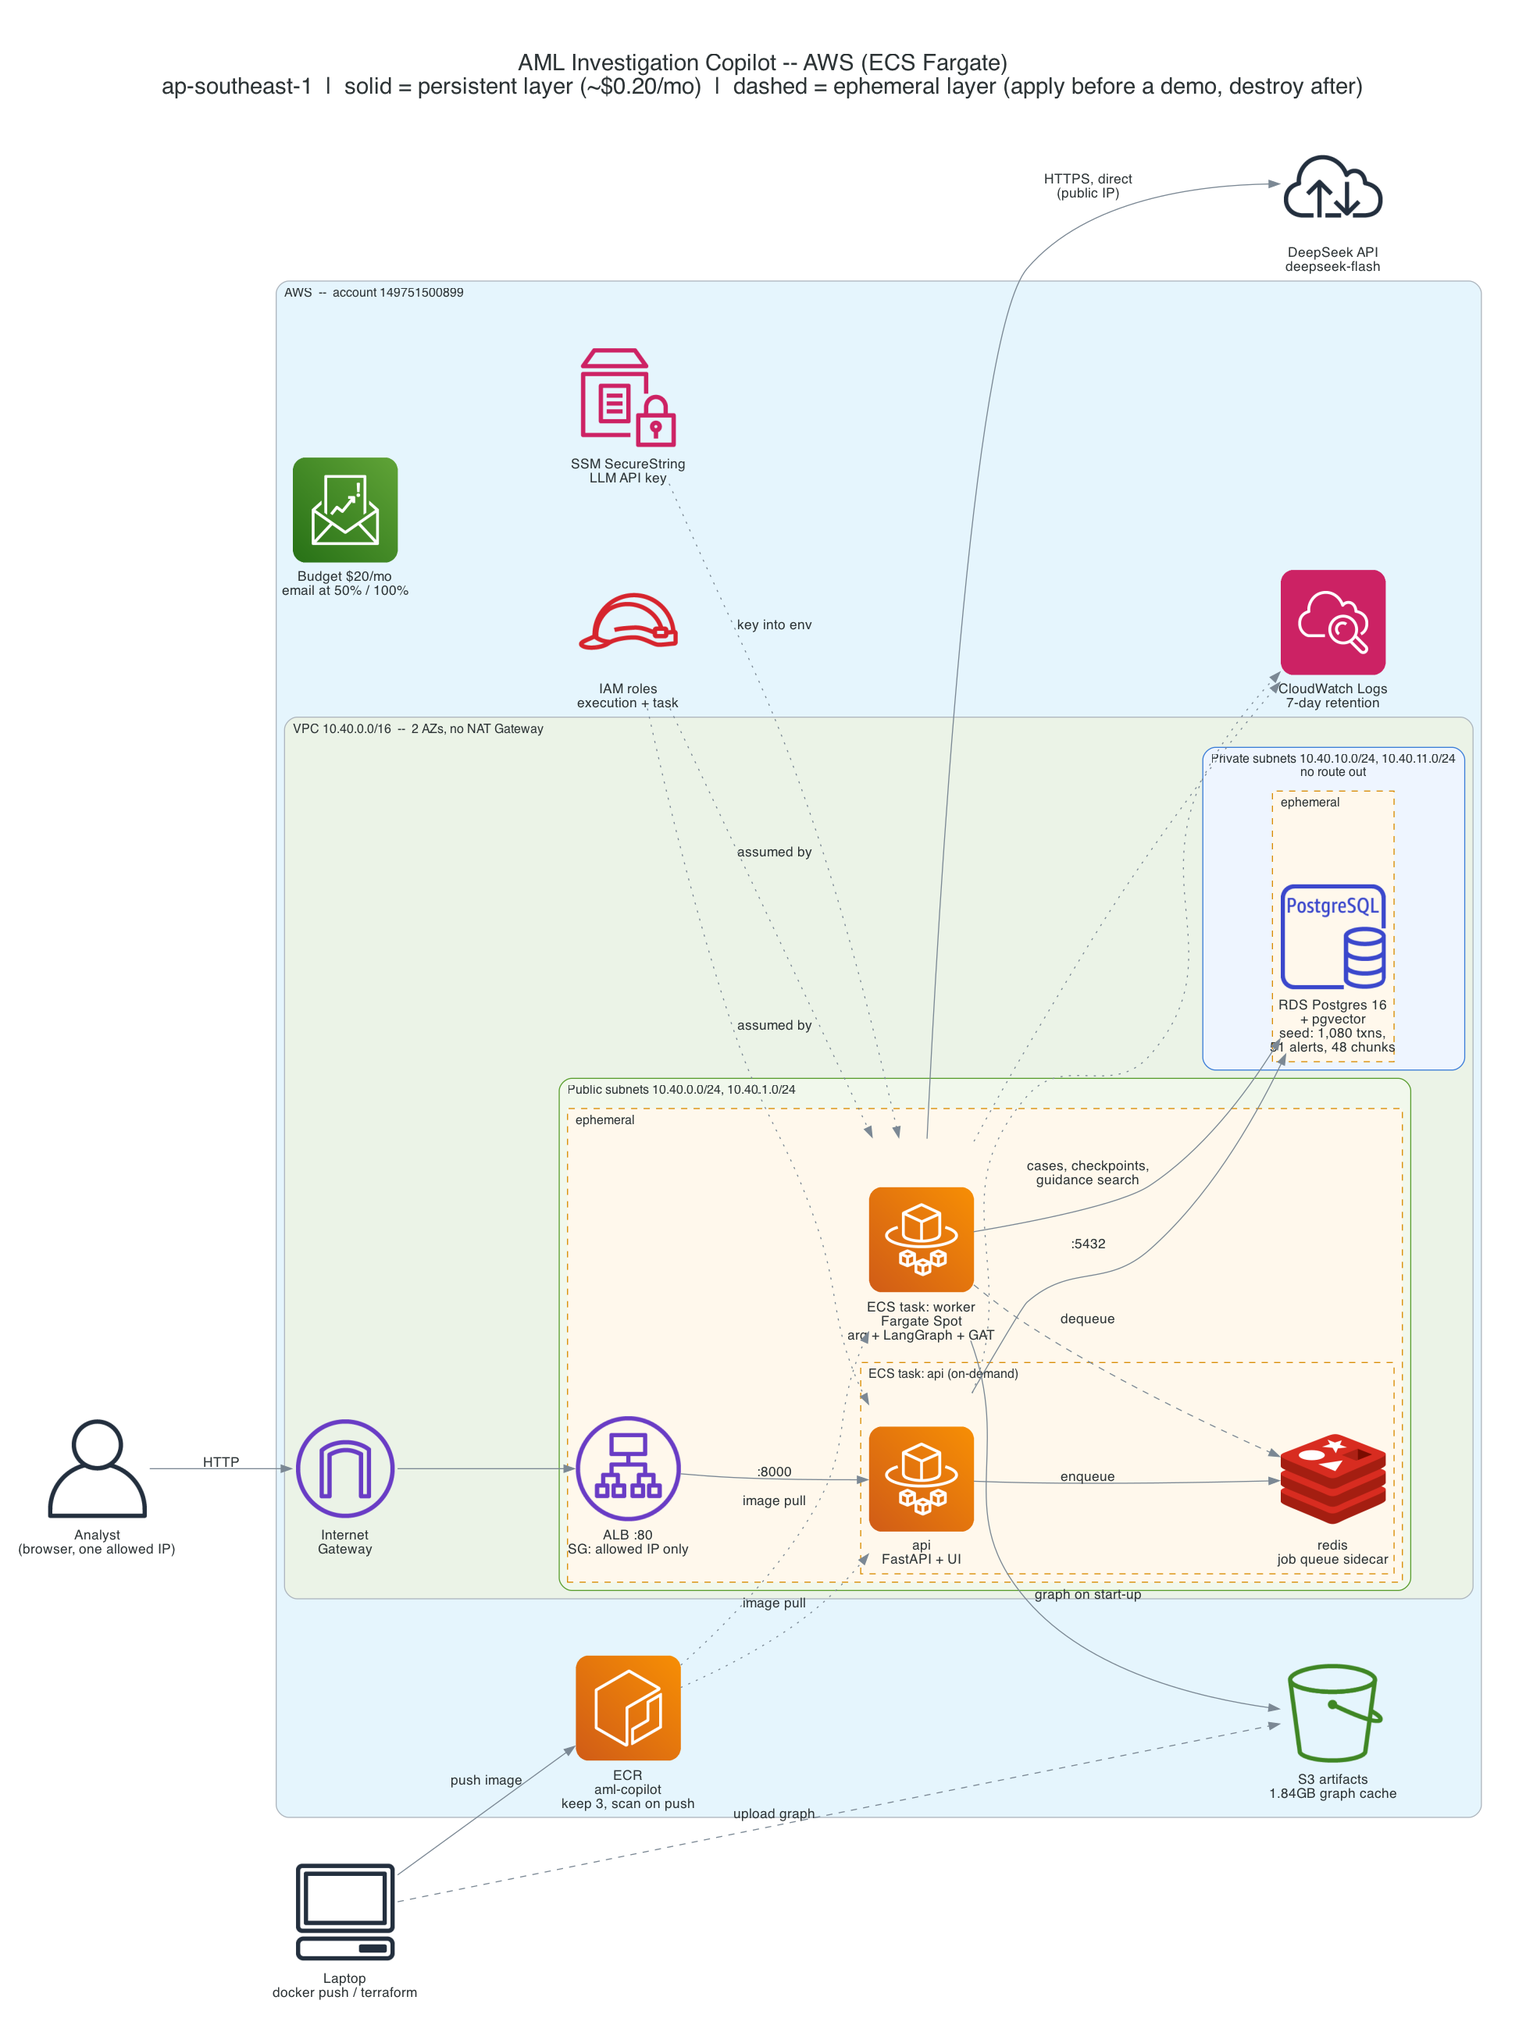
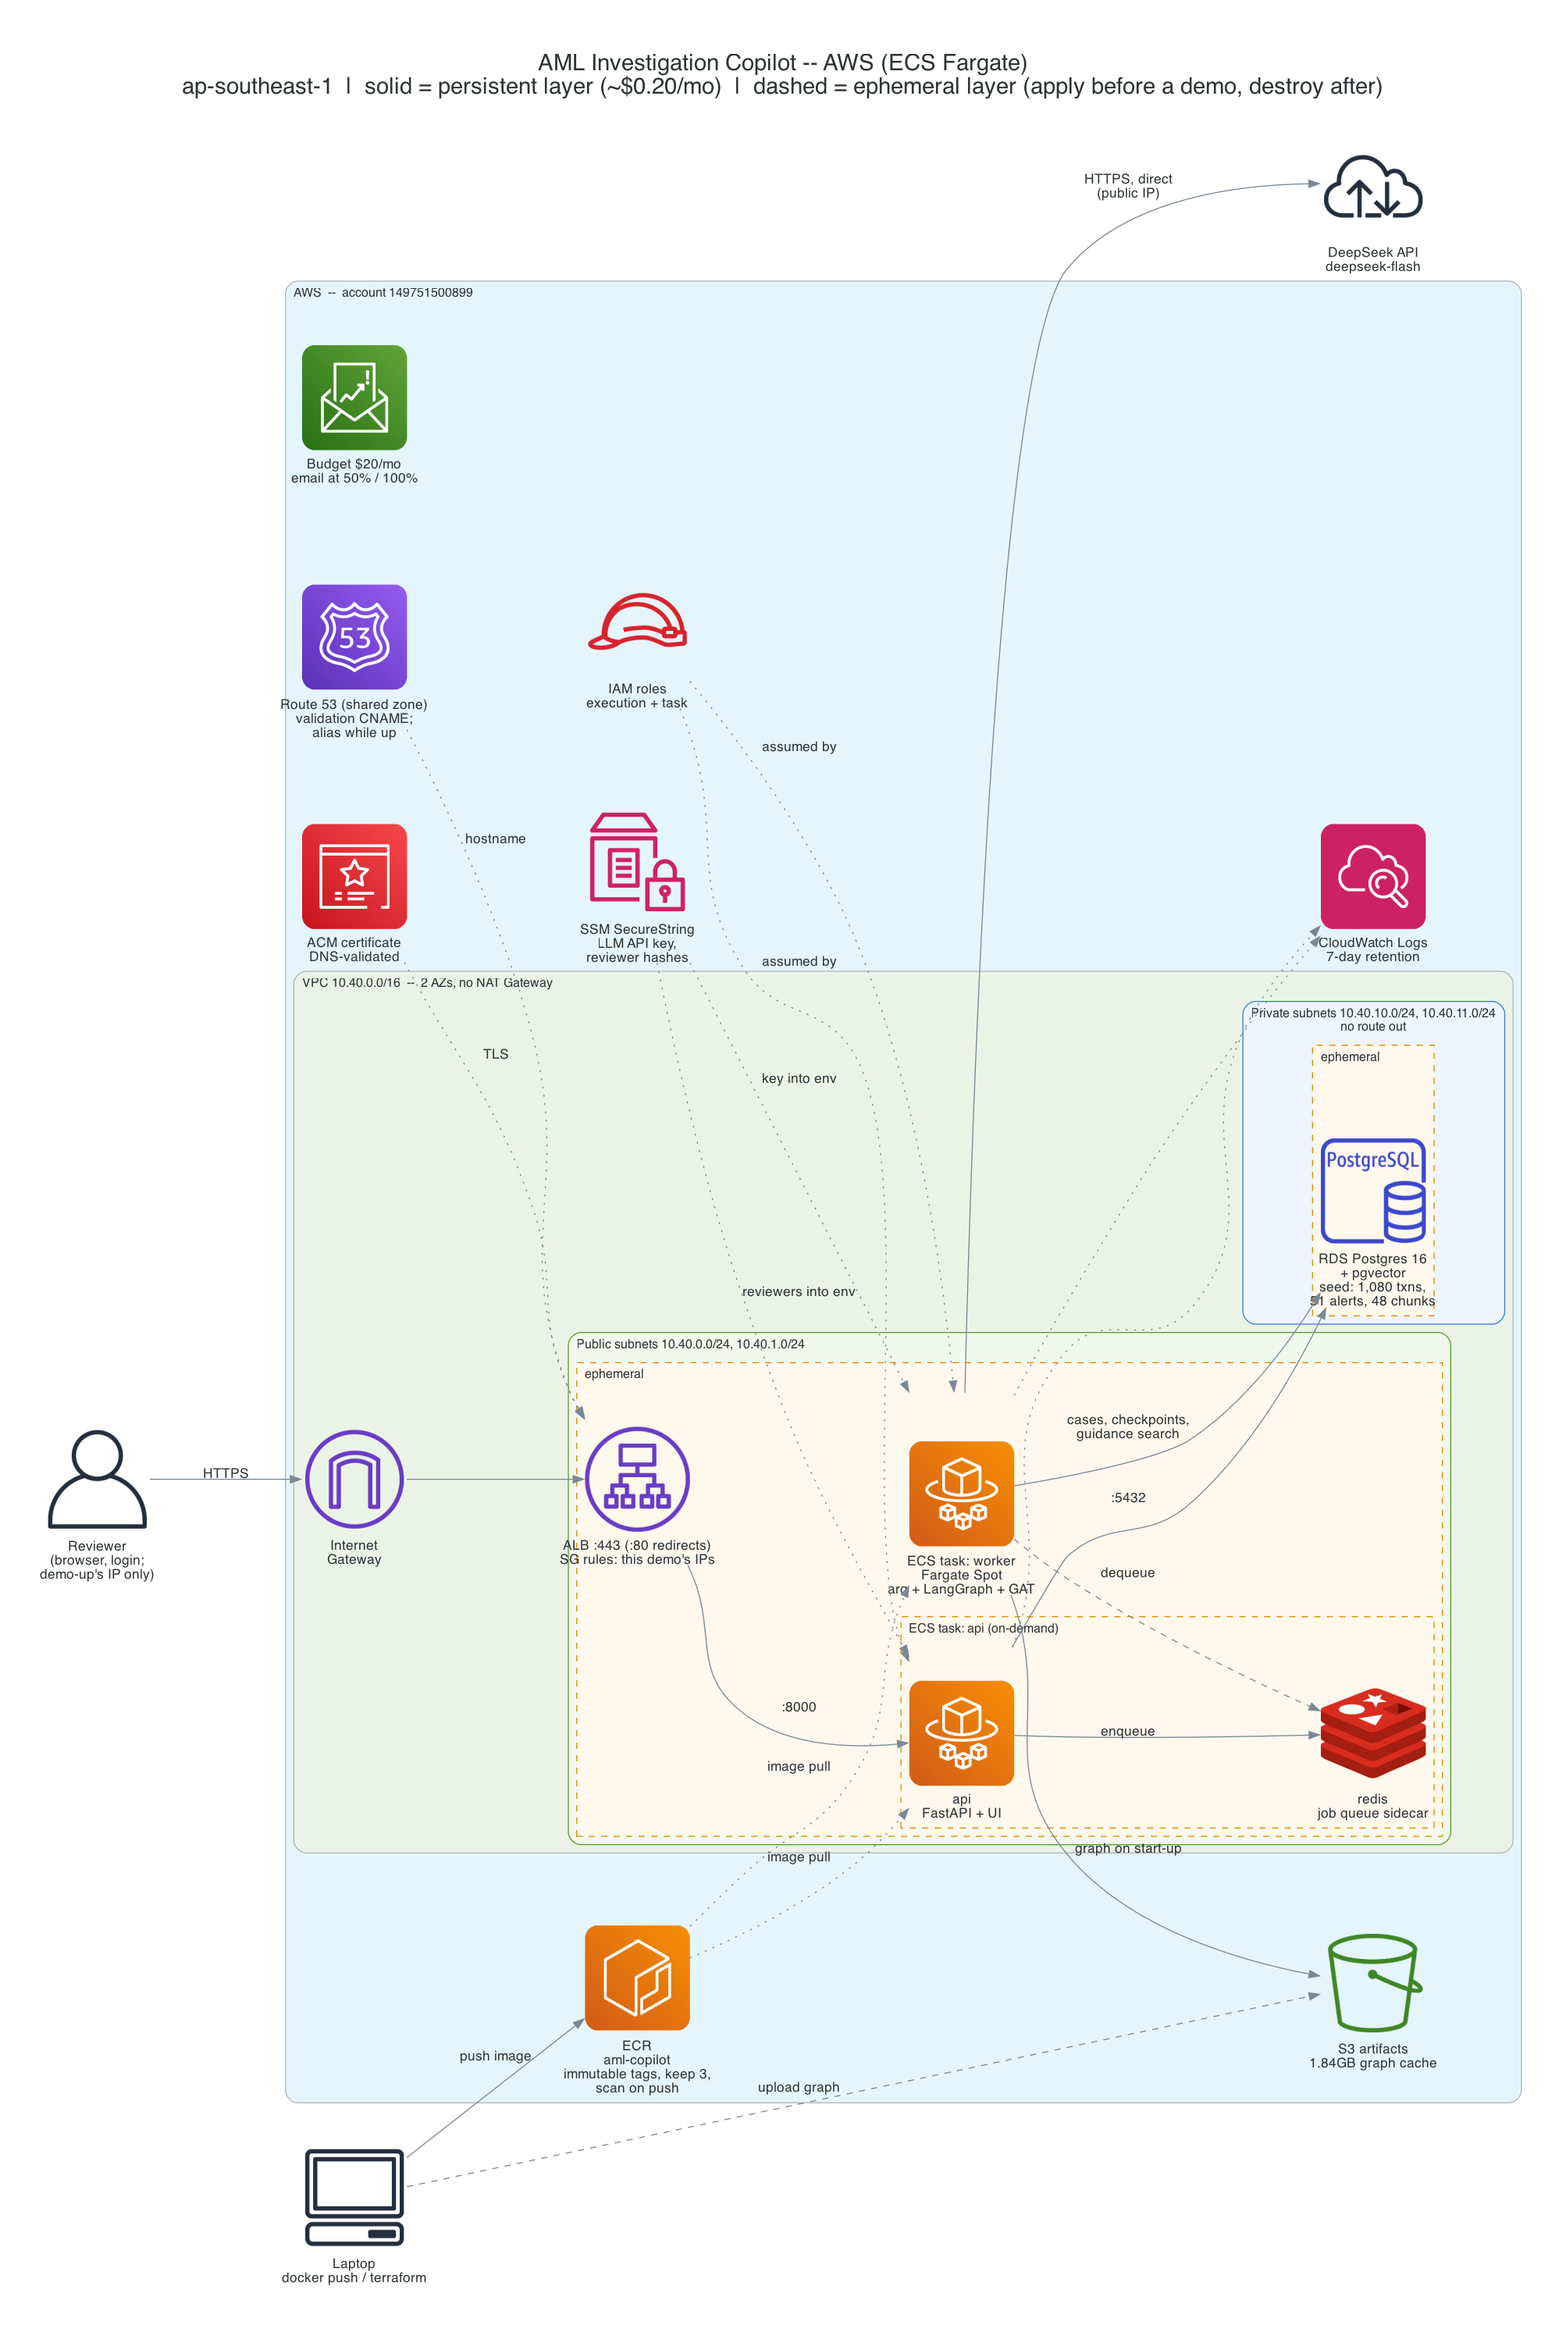
docs: describe the hardened deploy -- HTTPS, logins, per-demo allowlist
The README's deploy section, the demo script and the architecture
diagram described the stack before this branch: HTTP on :80, no login,
and an allowlisted home IP edited by hand in the persistent tfvars.

- README: the one-time setup now sets the reviewer logins and names the
  Route 53 zone (read, never managed, two records added). The graph
  upload notes that its sha256 directory is now checked. demo-up admits
  the machine it runs from, plus EXTRA_CIDRS. The "no auth" bullet is
  replaced by what is there now, and why basic auth over Cognito.
- demo script: step 1 no longer edits tfvars; the troubleshooting table
  re-runs demo-up for a changed IP (it reseeds but never truncates
  cases), covers a login loop, and sends a failed case to the logs,
  since the case now keeps only the error's type.
- diagram: HTTPS with :80 redirecting, the ACM certificate, the shared
  Route 53 zone, reviewer hashes in SSM, immutable ECR tags. Re-rendered
  with the command in its docstring.

diff --git a/infra/diagram.py b/infra/diagram.py
@@ -16,8 +16,8 @@ from diagrams.aws.compute import ECR, Fargate
 from diagrams.aws.cost import Budgets
 from diagrams.aws.database import RDSPostgresqlInstance
 from diagrams.aws.management import Cloudwatch, SystemsManagerParameterStore
-from diagrams.aws.network import ALB, InternetGateway
-from diagrams.aws.security import IAMRole
+from diagrams.aws.network import ALB, InternetGateway, Route53
+from diagrams.aws.security import CertificateManager, IAMRole
 from diagrams.aws.storage import SimpleStorageServiceS3Bucket
 from diagrams.onprem.client import Client, User
 from diagrams.onprem.inmemory import Redis
@@ -40,14 +40,16 @@ with Diagram("AML Investigation Copilot -- AWS (ECS Fargate)\n"
              filename=str(OUT), show=False, direction="LR",
              graph_attr=graph_attr):
 
-    analyst = User("Analyst\n(browser, one allowed IP)")
+    analyst = User("Reviewer\n(browser, login;\ndemo-up's IP only)")
     laptop = Client("Laptop\ndocker push / terraform")
     deepseek = Internet("DeepSeek API\ndeepseek-flash")
 
     with Cluster("AWS  --  account 149751500899"):
-        ecr = ECR("ECR\naml-copilot\nkeep 3, scan on push")
+        ecr = ECR("ECR\naml-copilot\nimmutable tags, keep 3,\nscan on push")
         s3 = SimpleStorageServiceS3Bucket("S3 artifacts\n1.84GB graph cache")
-        ssm = SystemsManagerParameterStore("SSM SecureString\nLLM API key")
+        ssm = SystemsManagerParameterStore("SSM SecureString\nLLM API key,\nreviewer hashes")
+        acm = CertificateManager("ACM certificate\nDNS-validated")
+        dns = Route53("Route 53 (shared zone)\nvalidation CNAME;\nalias while up")
         logs = Cloudwatch("CloudWatch Logs\n7-day retention")
         budget = Budgets("Budget $20/mo\nemail at 50% / 100%")
         roles = IAMRole("IAM roles\nexecution + task")
@@ -57,7 +59,7 @@ with Diagram("AML Investigation Copilot -- AWS (ECS Fargate)\n"
 
             with Cluster("Public subnets 10.40.0.0/24, 10.40.1.0/24", graph_attr=PUBLIC):
                 with Cluster("ephemeral", graph_attr=EPHEMERAL):
-                    alb = ALB("ALB :80\nSG: allowed IP only")
+                    alb = ALB("ALB :443 (:80 redirects)\nSG rules: this demo's IPs")
                     with Cluster("ECS task: api (on-demand)", graph_attr=EPHEMERAL):
                         api = Fargate("api\nFastAPI + UI")
                         redis = Redis("redis\njob queue sidecar")
@@ -68,7 +70,7 @@ with Diagram("AML Investigation Copilot -- AWS (ECS Fargate)\n"
                 with Cluster("ephemeral", graph_attr=EPHEMERAL):
                     rds = RDSPostgresqlInstance("RDS Postgres 16\n+ pgvector\nseed: 1,080 txns,\n51 alerts, 48 chunks")
 
-    analyst >> Edge(label="HTTP") >> igw >> alb >> Edge(label=":8000") >> api
+    analyst >> Edge(label="HTTPS") >> igw >> alb >> Edge(label=":8000") >> api
     api >> Edge(label="enqueue") >> redis
     worker >> Edge(label="dequeue", style="dashed") >> redis
     api >> Edge(label=":5432") >> rds
@@ -79,5 +81,8 @@ with Diagram("AML Investigation Copilot -- AWS (ECS Fargate)\n"
     laptop >> Edge(label="upload graph", style="dashed") >> s3
     ecr >> Edge(label="image pull", style="dotted") >> [api, worker]
     ssm >> Edge(label="key into env", style="dotted") >> worker
+    ssm >> Edge(label="reviewers into env", style="dotted") >> api
+    acm >> Edge(label="TLS", style="dotted") >> alb
+    dns >> Edge(label="hostname", style="dotted") >> alb
     roles >> Edge(label="assumed by", style="dotted") >> [api, worker]
     [api, worker] >> Edge(style="dotted") >> logs

diff --git a/README.md b/README.md
@@ -242,8 +242,8 @@ separate state:
 
 | Layer | Contains | Lifecycle | Approx. cost |
 |---|---|---|---|
-| `infra/persistent` | VPC, subnets, security groups, ECR, S3 (graph cache), log group, SSM key, IAM, $20 budget alarm | applied once | ~$0.20/mo |
-| `infra/ephemeral` | RDS Postgres 16 (`db.t4g.micro`), ALB, api task + Redis sidecar, worker on Fargate Spot, seed task | per demo | ~$0.11/hr |
+| `infra/persistent` | VPC, subnets, security groups, ECR, S3 (graph cache), log group, SSM key and reviewer logins, ACM certificate, IAM, $20 budget alarm | applied once | ~$0.20/mo |
+| `infra/ephemeral` | RDS Postgres 16 (`db.t4g.micro`), HTTPS ALB and its ingress rules, DNS alias, api task + Redis sidecar, worker on Fargate Spot, seed task | per demo | ~$0.11/hr |
 
 Estimates at on-demand `ap-southeast-1` prices when this was built; the budget alarm is
 the real guard.
@@ -251,11 +251,16 @@ the real guard.
 **Once:**
 
 ```bash
-cp infra/persistent/terraform.tfvars.example infra/persistent/terraform.tfvars   # email, your IP
+cp infra/persistent/terraform.tfvars.example infra/persistent/terraform.tfvars   # email, zone, hostname
 cd infra/persistent && terraform init && terraform apply
 aws ssm put-parameter --name /aml-copilot/llm-api-key --type SecureString \
   --overwrite --value "$(grep '^AML_LLM_API_KEY=' ../../.env | cut -d= -f2-)"
+cd ../.. && aws ssm put-parameter --name /aml-copilot/reviewers --type SecureString \
+  --overwrite --value "$(uv run python -m api.auth alice)"    # prompts for each password
 ```
+
+`domain_zone` is an existing public Route 53 zone. Terraform only reads it and adds two
+records: the certificate's validation CNAME, and an alias to the ALB while a demo is up.
 
 Then upload the graph cache the worker fetches on start-up:
 
@@ -263,16 +268,20 @@ Then upload the graph cache the worker fetches on start-up:
 aws s3 cp data/HI-Small_Trans.None.graph.pt s3://<artifacts_bucket>/graph/<sha256[:16]>/HI-Small_Trans.None.graph.pt
 ```
 
+The directory is the file's checksum, not decoration: the worker refuses a download whose
+sha256 does not start with it, since `torch.load` unpickles whatever it is given.
+
 **Per demo** (~6 minutes, most of it RDS). The image is tagged with the current git
 commit, so push once per commit you want to run:
 
 ```bash
 make push        # build and push this commit's image (refuses with uncommitted changes)
-make demo-up     # apply, seed RDS, wait for the API and worker, print the URL
+make demo-up     # apply for this machine's IP, seed RDS, wait for API and worker, print the URL
 make demo-down   # destroy, then check no RDS, ALB, ECS cluster or elastic IP remains
 ```
 
-`demo-up` and `demo-down` each ask before touching billed resources.
+`demo-up` and `demo-down` each ask before touching billed resources. The ALB admits only
+the public IP `demo-up` runs from; add others with `EXTRA_CIDRS=198.51.100.4/32 make demo-up`.
 
 Choices worth defending:
 
@@ -286,10 +295,12 @@ Choices worth defending:
 - **Redis is a sidecar in the on-demand api task**, not ElastiCache: cheaper, and a
   Spot reclaim of the worker cannot take the queue with it. Run state lives in the
   Postgres checkpointer either way.
-- **The ALB is open to `allowed_cidrs` only.** There is no auth, and every case spends
-  LLM credit.
-- **Secrets stay out of Terraform state and task definitions.** The LLM key is set from
-  the CLI; the DSN reaches containers through SSM.
+- **Reviewers log in, over HTTPS, from the demo's IPs only.** Per-reviewer basic auth
+  (`api/auth.py`), so an approval records who gave it. Basic auth rather than Cognito:
+  one login check and a hash file, not a user pool, for a demo with a handful of
+  reviewers. The allowlist is written per demo, because every case spends LLM credit.
+- **Secrets stay out of Terraform state and task definitions.** The LLM key and reviewer
+  hashes are set from the CLI; the DSN reaches containers through SSM.
 
 Verified end to end on 2026-09-23: a case through the public ALB parked at the human
 gate after 31s and resumed to `approved` from the RDS checkpoint.

diff --git a/docs/demo-script.md b/docs/demo-script.md
@@ -8,10 +8,11 @@ changes, this changes with it.
 
 ## Before the call (T–20 min)
 
-1. **Your IP has to be allowed.** The ALB admits one IP. If you are not at home:
-   `curl https://checkip.amazonaws.com`, put it in `infra/persistent/terraform.tfvars`,
-   then `terraform -chdir=infra/persistent apply`. Takes a minute.
-2. **`make demo-up`** (~6–8 min). Wait for `worker ready (0 restarts)` and the URL.
+1. **Run it from the machine you will present on.** The ALB admits only the IP `demo-up`
+   runs from. If the interviewer should reach it too, add theirs:
+   `EXTRA_CIDRS=<their-ip>/32 make demo-up`.
+2. **`make demo-up`** (~6–8 min). Wait for `worker ready (0 restarts)` and the URL. The
+   browser asks for your reviewer login; the case view will say who approved.
 3. **Pre-run three cases** from the queue, so nobody watches a 30–60s wait:
    - **5077931** (queue #8) — the clean example. Usually `layering`, cites red flags.
    - **5077724** (queue #2) — `rapid_movement`, the pattern is easy to see.
@@ -171,9 +172,10 @@ fractions of a cent per case (~7.5k tokens in, ~3.5k out).
 
 | Symptom | Likely cause | Do |
 |---|---|---|
-| URL doesn't load at all | Your IP changed | Step 1 of *Before the call* |
+| URL doesn't load at all | Your IP changed since `demo-up` | `make demo-up` again: it re-applies for the new IP and reseeds, and keeps cases |
+| Login prompt keeps coming back | Wrong password, or reviewers not set | Re-set `/aml-copilot/reviewers` (README, *Deploy*), then `aws ecs update-service --cluster aml-copilot --service api --force-new-deployment` |
 | Case sits at `queued` | Worker not up yet | Wait for `worker ready`; `aws logs tail /ecs/aml-copilot --follow` |
-| Case `failed`, error mentions 402 | DeepSeek balance ran out | Top up; switch to the pre-run cases meanwhile |
+| Case `failed` | Often a 402: DeepSeek balance ran out | `aws logs tail /ecs/aml-copilot --since 10m` for the error; top up; switch to the pre-run cases meanwhile |
 | Case takes >90s | DeepSeek peak hours | Talk through it, or switch to a pre-run case |
 
 **Afterwards: `make demo-down`.** Left up, it's about $2.60 a day.
